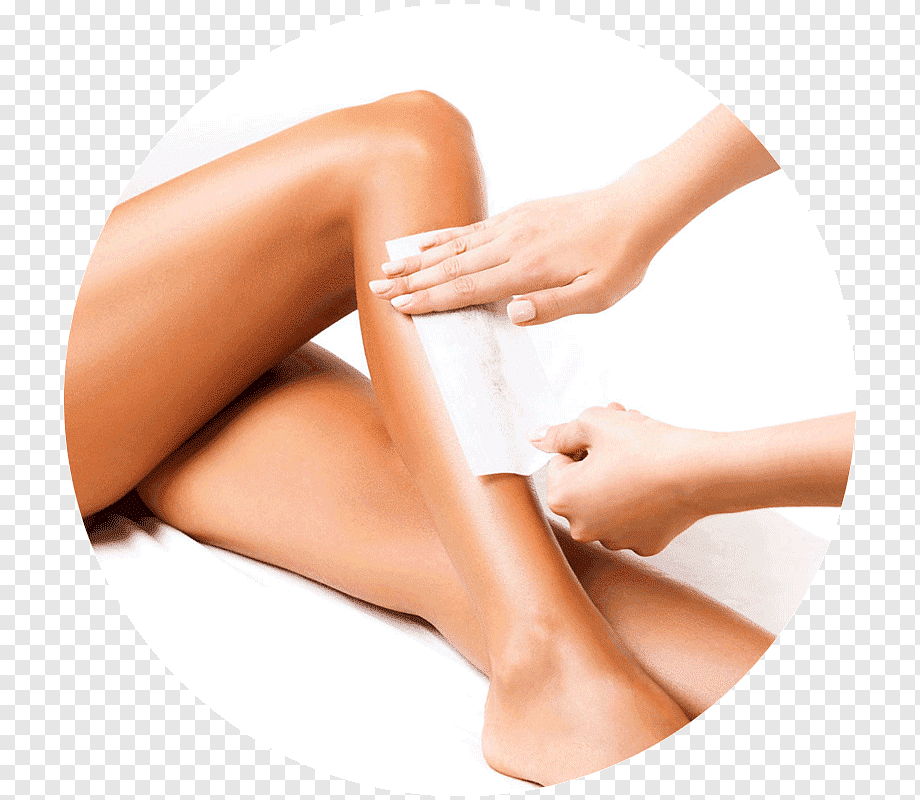
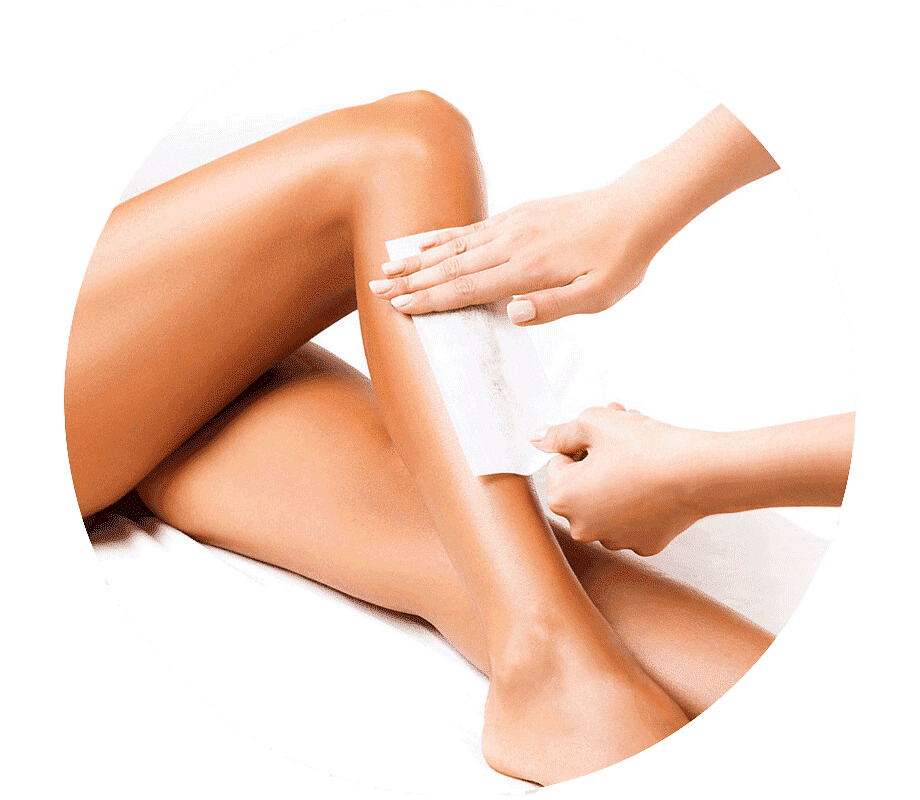
Update home page

Changed region(s): [[0.5478, 0.0, 1.0, 1.0], [0.0, 0.0, 0.4565, 1.0]]

diff --git a/src/views/public/Home.jsx b/src/views/public/Home.jsx
@@ -2,30 +2,34 @@ import { StyleSheet, View, Text, Image, Dimensions } from 'react-native'
 import React from 'react'
 import Carousel, { PaginationLight } from 'react-native-x-carousel';
 
-
 const { width } = Dimensions.get('window');
 
 const DATA = [
   {
-    coverImageUri: require('./images/manicure.jpg'),
-    cornerLabelColor: '#FFD300',
-    cornerLabelText: 'GOTY',
+    coverImageUri: require('./images/manicure.png'),
+    cornerLabelColor: '#b71fff',
+    cornerLabelText: 'MANICURE E PEDICURE',
   },
   {
     coverImageUri: require('./images/depilacao.png'),
-    cornerLabelColor: '#0080ff',
-    cornerLabelText: 'NEW',
+    cornerLabelColor: '#b71fff',
+    cornerLabelText: 'DEPILAÇÃO NA CERA',
   },
   {
     coverImageUri: require('./images/limpeza.png'),
-    cornerLabelColor: '#2ECC40',
-    cornerLabelText: '-75%',
+    cornerLabelColor: '#b71fff',
+    cornerLabelText: 'LIMPEZA DE PELE',
   },
   {
     coverImageUri: require('./images/spa.png'),
-    cornerLabelColor: '#2ECC40',
-    cornerLabelText: '-20%',
+    cornerLabelColor: '#b71fff',
+    cornerLabelText: 'SPA DOS PéS',
   },
+  {
+    coverImageUri: require('./images/Design.png'),
+    cornerLabelColor: '#b71fff',
+    cornerLabelText: 'DESIGN DE SOBRANCELHAS',
+  },  
 ];
 
 const Home = () => {
@@ -39,7 +43,6 @@ const Home = () => {
       >
         <Image
           style={styles.card}
-          // source={{ uri: data.coverImageUri }}
           source={data.coverImageUri}
         />
         <View
@@ -58,7 +61,9 @@ const Home = () => {
 
   return (
     <View style={styles.container}>
-      <Text>Home</Text>
+      <Text style={styles.titulo}>Bem vindo!</Text>
+      <Image source={require('./images/logo.png')} style={styles.imgLogo} />
+      <Text style={styles.t2}> Serviços Disponíveis </Text>
       <Carousel
         pagination={PaginationLight}
         renderItem={renderItem}
@@ -74,26 +79,35 @@ const styles = StyleSheet.create({
   container: {
     flex: 1,
     backgroundColor: '#fff',
-    alignItems: 'center',
-    justifyContent: 'center',
+    justifyContent: 'flex-start',
+  },
+  imgLogo:{
+    height: 150,
+    width: 150,
+    top: 0,
+    resizeMode:'cover',
+    left: 270
   },
   cardContainer: {
     alignItems: 'center',
     justifyContent: 'center',
     width,
+    height: 250
   },
   cardWrapper: {
     borderRadius: 8,
     overflow: 'hidden',
+    top: 10,
   },
   card: {
-    width: width * 0.9,
+    width: width * 0.5,
     height: width * 0.5,
+    alignItems: 'flex-end'
   },
   cornerLabel: {
     position: 'absolute',
     bottom: 0,
-    right: 0,
+    right: 10,
     borderTopLeftRadius: 8,
   },
   cornerLabelText: {
@@ -104,6 +118,23 @@ const styles = StyleSheet.create({
     paddingRight: 5,
     paddingTop: 2,
     paddingBottom: 2,
+  },
+  titulo: {
+    color: '#000000',
+    ////fontFamily: 'Montserrat-Bold',
+    fontSize: 33,
+    fontWeight: '700',
+    left: 20,
+    position: 'absolute',
+    top: 20,
+  },
+  t2: {
+    color: '#000000',
+    ////fontFamily: 'Montserrat-Bold',
+    fontSize: 20,
+    fontWeight: '500',
+    left: 10,
+    top: 10,
   },
 });
 

diff --git a/App.js b/App.js
@@ -13,7 +13,7 @@ const Stack = createStackNavigator();
 
 function StackNavigation() {
   return (
-    <Stack.Navigator>
+    <Stack.Navigator screenOptions={{headerShown: false}}>
       <Stack.Screen 
         name="GetStarted" 
         component={GetStarted}

diff --git a/src/views/public/SignIn.jsx b/src/views/public/SignIn.jsx
@@ -21,7 +21,6 @@ const SignIn = () => {
   const auth = getAuth();
 
   const authSignIn = () => {
-    console.log("APERTOU")
     signInWithEmailAndPassword(auth, email, password)
       .then((userCredential) => {
         const user = userCredential.user;
